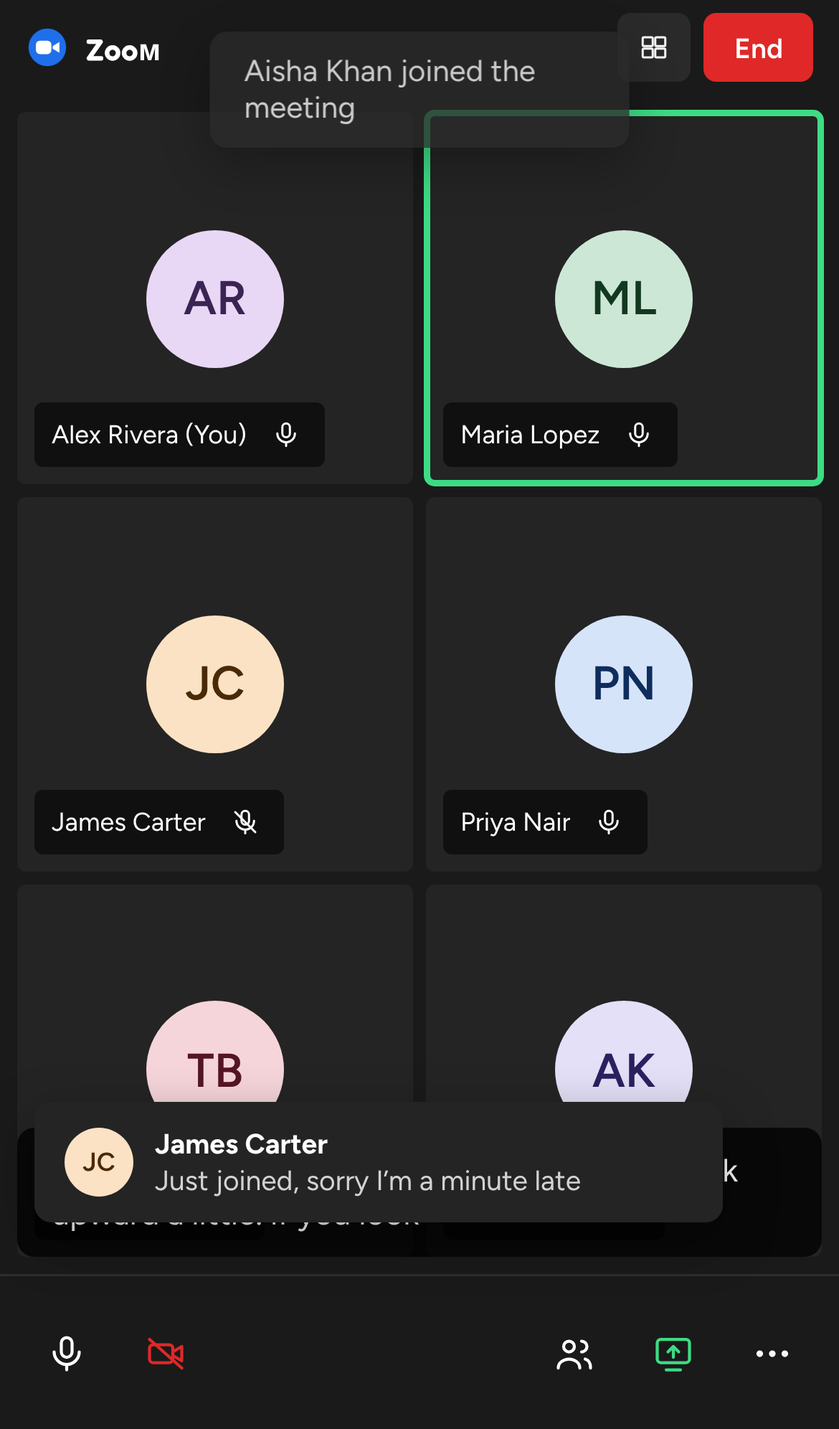
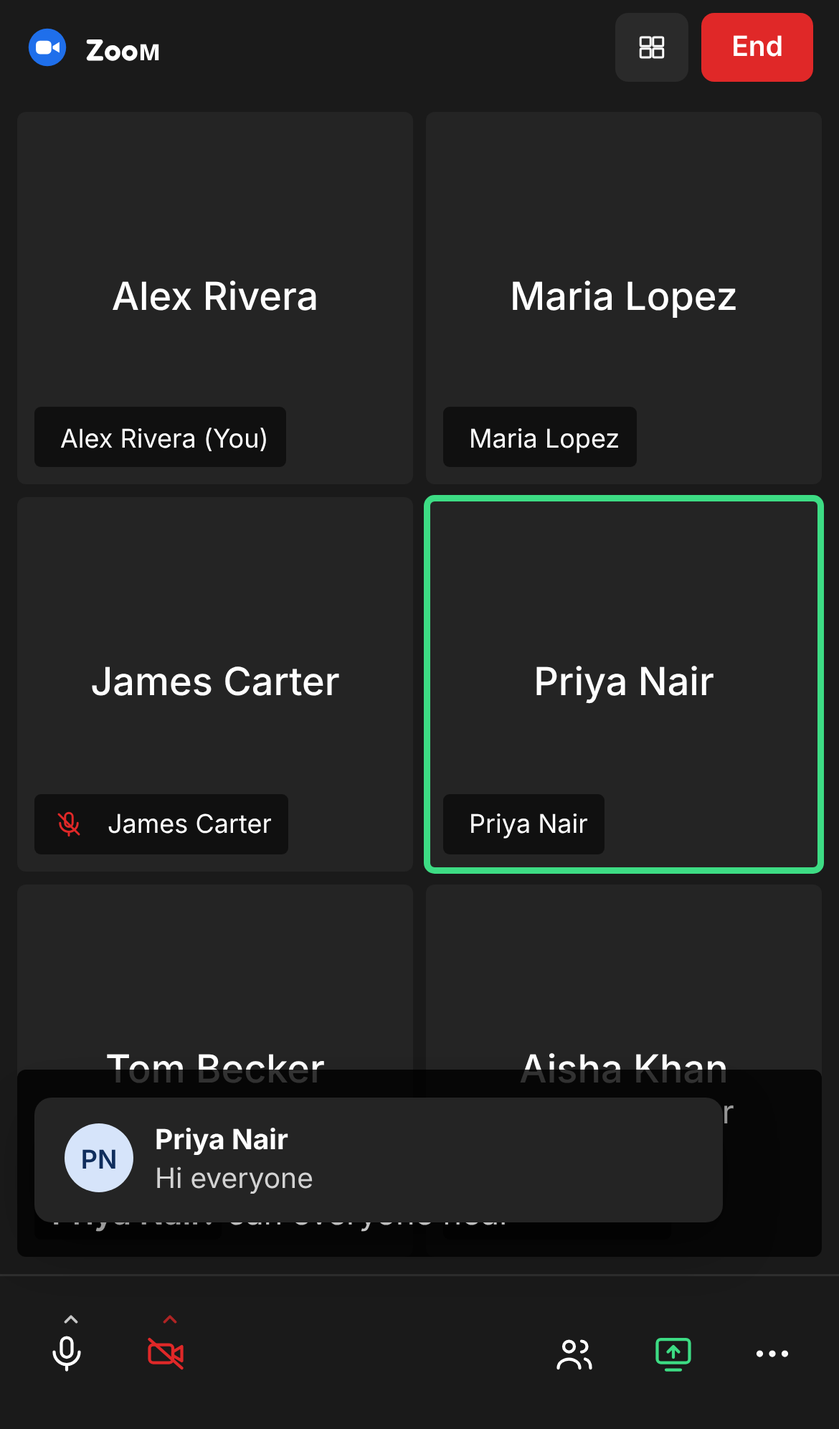
Final pass: app lookalikes closer to the originals
- Each app's own typeface (Segoe UI, system font, Inter, Google Sans/Roboto)
- Name labels per app; mic icon only when muted
- Zoom: names instead of initials when the camera is off, carets on
  Mute and Stop Video, "React", "To: Everyone" chat
- Meet: talking and muted indicators in the tile corner, mic and camera
  pills with a device caret, device pickers and effects on pre-join
- Teams pre-join: audio options column (Computer, Room, Phone, none)
- Zoom and Webex pre-join details; captions styled per app
- README screenshots refreshed

Claude-Session: https://claude.ai/code/session_01Dy5XS5pHaniwk8XpDKJfnS

diff --git a/meeting.html b/meeting.html
@@ -5,7 +5,7 @@
 <meta name="viewport" content="width=device-width, initial-scale=1, viewport-fit=cover">
 <title>Totally Real Meeting: in a parody call</title>
 <link rel="preconnect" href="https://fonts.googleapis.com">
-<link href="https://fonts.googleapis.com/css2?family=Figtree:wght@400;500;600;700&family=Fredoka:wght@600&display=swap" rel="stylesheet">
+<link href="https://fonts.googleapis.com/css2?family=Figtree:wght@400;500;600;700&family=Fredoka:wght@600&family=Inter:wght@400;500;600&family=Roboto:wght@400;500&display=swap" rel="stylesheet">
 <script src="shared.js"></script>
 <script src="talk.js"></script>
 <style>
@@ -35,6 +35,17 @@ a{color:inherit}
 .name{position:absolute;left:8px;bottom:8px;max-width:calc(100% - 16px);display:flex;align-items:center;gap:4px;padding:3px 4px 3px 8px;border-radius:4px;font-size:13px;z-index:1}
 .name .n{overflow:hidden;text-overflow:ellipsis;white-space:nowrap}
 .name button{width:28px;height:24px;flex:none;border:0;background:transparent;display:inline-flex;align-items:center;justify-content:center;padding:0;cursor:pointer}
+.name button.quiet{width:0;opacity:0;overflow:hidden}.tile:hover .name button.quiet,.name button.quiet:focus-visible{width:28px;opacity:1}
+.name:has(button.quiet){padding-right:8px}.skin-zoom .name{padding:2px 8px 2px 2px}.skin-zoom .name:has(button.quiet){padding-left:8px}
+.zname{max-width:100%;padding:0 16px;font-size:clamp(18px,2.2vw,32px);font-weight:500;color:#fff;text-align:center;overflow:hidden;text-overflow:ellipsis;white-space:nowrap}
+.dense .zname,.speaker .strip .zname{font-size:16px}
+.mstat{position:absolute;top:10px;right:10px;z-index:1;width:28px;height:28px;border:0;border-radius:50%;display:flex;align-items:center;justify-content:center;cursor:pointer;color:#fff;padding:0}
+.mstat.quiet{background:transparent;opacity:0}.tile:hover .mstat.quiet,.mstat.quiet:focus-visible{opacity:1;background:rgba(32,33,36,.6)}
+.bars{display:flex;align-items:center;gap:2px;height:14px}.bars i{width:3px;height:4px;border-radius:2px;background:#fff;animation:bar .5s ease-in-out infinite alternate}
+.bars i:nth-child(2){animation-delay:.15s}.bars i:nth-child(3){animation-delay:.3s}
+@keyframes bar{to{height:12px}}
+.skin-meet .react{right:48px}
+.caret{position:absolute;top:5px;right:16px;opacity:.75}
 .hand{position:absolute;top:8px;left:8px;z-index:1;width:30px;height:30px;border-radius:8px;background:#FFC83D;color:#3A2A00;display:flex;align-items:center;justify-content:center}
 .react{position:absolute;top:6px;right:10px;z-index:1;font-size:34px;line-height:1;animation:pop 3.5s ease-out forwards;pointer-events:none}
 @keyframes pop{0%{transform:translateY(16px) scale(.6);opacity:0}12%{transform:none;opacity:1}80%{opacity:1}100%{transform:translateY(-24px);opacity:0}}
@@ -54,6 +65,12 @@ button:focus-visible,a:focus-visible,input:focus-visible,select:focus-visible,[r
 .captions .cl + .cl{margin-top:6px}
 .captions .cl.old{opacity:.62}
 .captions b{font-weight:600;margin-right:6px;opacity:.8}
+.captions .cl.rich{display:flex;gap:10px;align-items:flex-start}
+.captions .rich b{display:block;margin:0 0 1px;font-size:13px;opacity:.85}
+.captions .cav{width:28px;height:28px;flex:none;margin-top:2px;border-radius:50%;display:flex;align-items:center;justify-content:center;font-size:11px;font-weight:600}
+.captions.cap-meet{font-size:20px;background:rgba(32,33,36,.9);border-radius:12px;padding:12px 18px}
+.captions.cap-meet .rich b{font-size:14px}
+.captions.cap-zoom,.captions.cap-webex{border-radius:4px;background:rgba(0,0,0,.8)}
 #toast{position:fixed;z-index:6;width:min(320px,calc(100% - 32px));padding:12px 14px;border-radius:8px;display:flex;gap:10px;box-shadow:0 8px 24px rgba(0,0,0,.35);font-size:13px;opacity:0;transform:translateY(8px);transition:opacity .2s,transform .2s;pointer-events:none}
 #toast.show{opacity:1;transform:none;pointer-events:auto;cursor:pointer}
 #notice{position:fixed;z-index:9;left:50%;top:76px;transform:translate(-50%,-6px);padding:10px 16px;border-radius:8px;background:#2B2B2B;color:#fff;font-size:14px;box-shadow:0 8px 24px rgba(0,0,0,.35);opacity:0;transition:opacity .2s,transform .2s;pointer-events:none;max-width:calc(100% - 32px)}
@@ -124,6 +141,13 @@ button:focus-visible,a:focus-visible,input:focus-visible,select:focus-visible,[r
 .lob-h{margin:0;font-weight:600;font-size:22px}
 .lob-sub{margin:0;font-size:14px;opacity:.75}
 .joinbtn{border:0;cursor:pointer;font-weight:600;font-size:15px;min-height:40px;padding:0 24px;display:inline-flex;align-items:center;justify-content:center;gap:8px}
+.tlob{display:grid;grid-template-columns:minmax(0,1fr) 300px;gap:20px;padding:16px}
+@media (max-width:760px){.tlob{grid-template-columns:1fr}}
+.aopt{display:block;width:100%;padding:10px 12px;border-radius:6px;background:transparent}
+.rdot{width:18px;height:18px;flex:none;border:2px solid;border-radius:50%;display:inline-flex;align-items:center;justify-content:center}.rdot i{width:8px;height:8px;border-radius:50%}
+.skin-meet .pre .off{margin-bottom:64px}
+.devrow{display:flex;gap:8px;flex-wrap:wrap;margin-top:12px}
+.devchip{gap:6px;height:32px;max-width:220px;padding:0 10px;border:1px solid #DADCE0;border-radius:16px;font-size:13px}.devchip span{overflow:hidden;text-overflow:ellipsis;white-space:nowrap}
 .swrow{display:flex;align-items:center;gap:10px;font-size:14px}
 .connecting{position:absolute;left:50%;top:50%;transform:translate(-50%,-50%);z-index:3;display:flex;flex-direction:column;align-items:center;gap:14px;padding:22px 28px;border-radius:10px;background:rgba(0,0,0,.72);color:#fff;font-size:15px}
 .spin{width:30px;height:30px;border-radius:50%;border:3px solid rgba(255,255,255,.25);border-top-color:#fff;animation:spin 1s linear infinite}
@@ -185,6 +209,10 @@ const CA = S.customApp;
 /* The custom look borrows one of three layouts; everything else about it comes from the settings. */
 const L = skin === 'custom' ? { top: 'teams', bottom: 'zoom', pill: 'webex' }[CA.layout] : skin;
 const me = (S.name || '').trim() || 'Guest';
+/* Each app's own typeface (or the closest free one): Segoe UI for Teams, the system font for Zoom, Inter for Webex, Google Sans or Roboto for Meet. */
+const FONT = { teams: "'Segoe UI Variable Text','Segoe UI',-apple-system,BlinkMacSystemFont,Roboto,sans-serif", zoom: "-apple-system,BlinkMacSystemFont,'Segoe UI',Lato,'Helvetica Neue',Arial,sans-serif", webex: "Inter,'Segoe UI',-apple-system,system-ui,sans-serif", meet: "'Google Sans',Roboto,Arial,sans-serif" }[skin];
+if (FONT) document.body.style.fontFamily = FONT;
+document.body.classList.add('skin-' + skin);
 const isNarrow = () => matchMedia('(max-width:700px)').matches;
 const SITE_URL = new URL('index.html', location.href).href.replace(/index\.html$/, '');
 
@@ -224,6 +252,7 @@ const state = {
   joined: Date.now(),                    /* chat pacing follows when you joined, not the clock */
   panel: null, ended: null, view: 'gallery', hand: false, react: null, rec: false, cc: !S.audio, capLines: [],   /* with no audio, captions start on */
   phase: 'lobby',   /* lobby, connecting, call; then ended */
+  lobAudio: 0,      /* Teams pre-join: which audio option is picked */
   people: []
 
 };
@@ -258,7 +287,8 @@ function gridCols(n) {
   if (isNarrow()) return n <= 2 ? 1 : 2;
   return n <= 1 ? 1 : n <= 4 ? 2 : n <= 9 ? 3 : n <= 16 ? 4 : 5;
 }
-function avatar(p, ini) {
+function avatar(p, ini, name) {
+  if (skin === 'zoom' && name) return `<span class="zname" aria-hidden="true">${esc(name)}</span>`;   /* Zoom shows the name, not initials, when the camera is off */
   return skin === 'meet'
     ? `<span class="avatar" style="background:${p.solid};color:#fff" aria-hidden="true">${esc(ini[0])}</span>`
     : `<span class="avatar" style="background:${p.bg};color:${p.fg}" aria-hidden="true">${esc(ini)}</span>`;
@@ -266,21 +296,30 @@ function avatar(p, ini) {
 function selfTile() {
   const video = state.camOn && stream;
   return `<div class="tile" style="background:${video ? C.self : C.tile};border-radius:${C.radius}">
-      ${video ? `<video id="selfVideo" class="${state.mirror ? 'mirror' : ''}" autoplay muted playsinline></video>` : avatar(ME_AV, initials(me))}
+      ${video ? `<video id="selfVideo" class="${state.mirror ? 'mirror' : ''}" autoplay muted playsinline></video>` : avatar(ME_AV, initials(me), me)}
       ${state.hand ? `<span class="hand" title="Hand raised">${handIco(18)}</span>` : ''}
       ${state.react ? `<span class="react" aria-hidden="true">${state.react}</span>` : ''}
-      <span class="name" style="background:${C.label};color:${C.text}"><span class="n">${esc(me)} (You)</span><button data-mute aria-label="${state.muted ? 'Unmute meeting audio' : 'Mute meeting audio'}" aria-pressed="${state.muted}" style="color:${C.text}">${micIco(14)}</button></span></div>`;
+      ${nameLabel(`${me} (You)`, state.muted, `data-mute aria-label="${state.muted ? 'Unmute meeting audio' : 'Mute meeting audio'}" aria-pressed="${state.muted}"`, false)}</div>`;
+}
+/* The name label, drawn the way each app draws it. The mic icon shows when someone is muted (and on hover, to mute them). */
+function nameLabel(name, muted, btnAttr, speaking) {
+  const mic = ico('mic', 14, muted ? ICONS.slash : '');
+  if (skin === 'zoom') return `<span class="name" style="background:rgba(0,0,0,.55);color:#fff;border-radius:3px"><button ${btnAttr} class="${muted ? '' : 'quiet'}" style="color:${muted ? '#E02828' : '#fff'}">${mic}</button><span class="n">${esc(name)}</span></span>`;
+  if (skin === 'meet') return `<span class="name" style="background:transparent;color:#fff;text-shadow:0 1px 2px rgba(0,0,0,.6);padding-left:6px"><span class="n">${esc(name)}</span></span>
+      <button class="mstat${muted || speaking ? '' : ' quiet'}" ${btnAttr} style="background:${muted ? 'rgba(32,33,36,.75)' : speaking ? '#1A73E8' : ''}">${speaking && !muted ? '<span class="bars" aria-hidden="true"><i></i><i></i><i></i></span>' : mic}</button>`;
+  return `<span class="name" style="background:${C.label};color:${C.text}"><span class="n">${esc(name)}</span><button ${btnAttr} class="${muted || skin === 'custom' ? '' : 'quiet'}" style="color:${C.text}">${mic}</button></span>`;
 }
 function personTile(p, i) {
-  const ring = p.speaking && !p.muted && !state.muted ? `outline:${skin === 'zoom' ? 3 : 2}px solid ${C.ring};outline-offset:-2px;` : 'outline:2px solid transparent;';
-  return `<div class="tile" style="background:${C.tile};border-radius:${C.radius};${ring}">${avatar(p, initials(p.name))}
+  const talking = p.speaking && !p.muted && !state.muted;
+  const ring = talking && skin !== 'meet' ? `outline:${skin === 'zoom' ? 3 : 2}px solid ${C.ring};outline-offset:-2px;` : 'outline:2px solid transparent;';
+  return `<div class="tile" style="background:${C.tile};border-radius:${C.radius};${ring}">${avatar(p, initials(p.name), p.name)}
       ${p.hand ? `<span class="hand" title="Hand raised">${handIco(18)}</span>` : ''}
       ${p.react ? `<span class="react" aria-hidden="true">${p.react}</span>` : ''}
-      <span class="name" style="background:${C.label};color:${C.text}"><span class="n">${esc(p.name)}</span><button data-p="${i}" aria-label="${p.muted ? 'Unmute' : 'Mute'} ${esc(p.name)}" aria-pressed="${p.muted}" style="color:${C.text}">${ico('mic', 14, p.muted ? ICONS.slash : '')}</button></span></div>`;
+      ${nameLabel(p.name, p.muted, `data-p="${i}" aria-label="${p.muted ? 'Unmute' : 'Mute'} ${esc(p.name)}" aria-pressed="${p.muted}"`, talking)}</div>`;
 }
 function overlays() {
   return `${state.phase === 'connecting' ? `<div class="connecting" role="status"><span class="spin" aria-hidden="true"></span>${L === 'meet' ? 'Joining…' : 'Connecting…'}</div>` : ''}${state.rec ? '<div class="rec"><i aria-hidden="true"></i>Recording</div>' : ''}
-    ${state.cc ? `<div class="captions" id="cap" aria-live="off">${captionsHtml()}</div>` : ''}`;
+    ${state.cc ? `<div class="captions cap-${skin}" id="cap" aria-live="off">${captionsHtml()}</div>` : ''}`;
 }
 /* On a wide screen an open panel sits beside the tiles, the way the desktop apps do it, so the controls stay reachable. */
 const PANEL_GAP = { teams: [64, 0, 0], zoom: [44, 72, 0], webex: [52, 84, 0], meet: [16, 80, 16] };
@@ -305,6 +344,7 @@ function tiles() {
 /* ---------- the four control layouts ---------- */
 const title = esc(topicTitle(S));
 const CHEVRON = '<svg width="14" height="14" viewBox="0 0 24 24" fill="none" stroke="currentColor" stroke-width="2.2" stroke-linecap="round" stroke-linejoin="round" aria-hidden="true"><path d="M6 9l6 6 6-6"/></svg>';
+const UPCARET = '<svg class="caret" width="10" height="10" viewBox="0 0 24 24" fill="none" stroke="currentColor" stroke-width="3" stroke-linecap="round" stroke-linejoin="round" aria-hidden="true"><path d="M6 15l6-6 6 6"/></svg>';
 const ex = (name) => `aria-expanded="false" aria-haspopup="${name}"`;
 
 function render() {
@@ -337,8 +377,8 @@ function render() {
       <span style="display:flex;gap:6px">${canFull ? `<button class="ibtn hide-xs" data-full aria-label="Full screen" style="height:32px;padding:0 10px;gap:6px;border-radius:6px;background:${C.chip};color:${C.text};font-size:12px">${ico(state.full ? 'exitfull' : 'full', 14)}<span class="hide-sm">${state.full ? 'Exit full screen' : 'Full screen'}</span></button>` : ''}<button class="ibtn" data-view ${ex('menu')} style="height:32px;padding:0 10px;gap:6px;border-radius:6px;background:${C.chip};color:${C.text};font-size:12px">${ico('view', 14)}<span class="hide-sm">View</span></button><button class="ibtn show-sm" data-leavemenu ${ex('menu')} style="height:32px;padding:0 14px;border-radius:6px;background:${C.leave};color:#fff;font-weight:600;font-size:13px">End</button></span></div>
       ${tiles()}
       <div style="height:72px;flex:none;display:flex;align-items:center;justify-content:space-between;padding:0 8px;background:${C.bar};border-top:1px solid ${C.line}">
-        <div style="display:flex">${b(micIco(), state.muted ? 'Unmute' : 'Mute', `data-mute aria-pressed="${state.muted}"`, state.muted ? '#E02828' : C.text)}${b(camIco(), state.camOn ? 'Stop Video' : 'Start Video', `data-cam aria-pressed="${!state.camOn}"`, state.camOn ? C.text : '#E02828')}</div>
-        <div style="display:flex">${b(ico('people') + `<span class="badge" style="right:22px;background:#3D3D3D">${state.people.length + 1}</span>`, 'Participants', `data-people aria-pressed="${pp}"`)}<span class="hide-sm" style="display:flex">${b(ico('chat') + `<span class="badge" style="right:20px">${unread}</span>`, 'Chat', `data-chat aria-label="Chat" aria-pressed="${state.panel === 'chat'}"`)}</span>${b(ico('share'), 'Share', 'data-share', C.share)}<span class="hide-sm" style="display:flex">${b(ico('rec'), rp ? 'Stop' : 'Record', `data-rec aria-pressed="${rp}"`, rp ? '#E02828' : C.text)}${b(ico('smile'), 'Reactions', `data-react ${ex('menu')}`)}</span>${b(ico('more'), 'More', `data-more ${ex('menu')}`)}</div>
+        <div style="display:flex">${b(micIco() + UPCARET, state.muted ? 'Unmute' : 'Mute', `data-mute aria-pressed="${state.muted}"`, state.muted ? '#E02828' : C.text)}${b(camIco() + UPCARET, state.camOn ? 'Stop Video' : 'Start Video', `data-cam aria-pressed="${!state.camOn}"`, state.camOn ? C.text : '#E02828')}</div>
+        <div style="display:flex">${b(ico('people') + `<span class="badge" style="right:22px;background:#3D3D3D">${state.people.length + 1}</span>`, 'Participants', `data-people aria-pressed="${pp}"`)}<span class="hide-sm" style="display:flex">${b(ico('chat') + `<span class="badge" style="right:20px">${unread}</span>`, 'Chat', `data-chat aria-label="Chat" aria-pressed="${state.panel === 'chat'}"`)}</span>${b(ico('share'), 'Share', 'data-share', C.share)}<span class="hide-sm" style="display:flex">${b(ico('rec'), rp ? 'Stop' : 'Record', `data-rec aria-pressed="${rp}"`, rp ? '#E02828' : C.text)}${b(ico('smile'), 'React', `data-react ${ex('menu')}`)}</span>${b(ico('more'), 'More', `data-more ${ex('menu')}`)}</div>
         <button class="ibtn hide-sm" data-leavemenu ${ex('menu')} style="height:34px;padding:0 18px;border-radius:8px;background:${C.leave};color:#fff;font-weight:600">End</button>
       </div>`;
   }
@@ -364,12 +404,13 @@ function render() {
 
   if (L === 'meet') {
     const r = (k, attr = '', bg = C.btn, label = '') => `<button class="ibtn" ${attr} aria-label="${label}" style="width:48px;height:48px;border-radius:24px;background:${bg};color:${bg === '#8AB4F8' ? '#202124' : C.text}">${k}</button>`;
+    const dev = (btn, label) => skin === 'meet' ? `<span style="display:inline-flex;align-items:center;border-radius:24px;background:${C.btn}"><button class="ibtn hide-sm" data-settings aria-label="${label}" style="width:30px;height:48px;padding-left:4px;color:${C.text}">${UPCARET.replace('class="caret" ', '')}</button>${btn}</span>` : btn;
     html = `<div class="show-sm" style="height:52px;flex:none;align-items:center;justify-content:space-between;padding:0 8px 0 16px">${brand('meet', 22)}<button class="ibtn" data-info aria-label="${W.info}" style="width:44px;height:44px;color:${C.text}">${ico('info')}</button></div>${tiles()}
       <div style="height:80px;flex:none;display:flex;align-items:center;justify-content:space-between;gap:8px;padding:0 20px">
         <span class="hide-sm" style="display:flex;align-items:center;gap:12px;font-size:15px;white-space:nowrap;min-width:0">${brand('meet', 24)}<span data-clock>${clock()}</span><span style="color:${C.muted}">|</span><span style="overflow:hidden;text-overflow:ellipsis">${title}</span></span>
         <span style="display:flex;gap:10px;margin:0 auto">
-          ${r(micIco(), `data-mute aria-pressed="${state.muted}"`, state.muted ? '#EA4335' : C.btn, state.muted ? 'Unmute meeting audio' : 'Mute meeting audio')}
-          ${r(camIco(), `data-cam aria-pressed="${!state.camOn}"`, state.camOn ? C.btn : '#EA4335', 'Camera')}
+          ${dev(r(micIco(), `data-mute aria-pressed="${state.muted}"`, state.muted ? '#EA4335' : C.btn, state.muted ? 'Turn on microphone' : 'Turn off microphone'), 'Audio settings')}
+          ${dev(r(camIco(), `data-cam aria-pressed="${!state.camOn}"`, state.camOn ? C.btn : '#EA4335', state.camOn ? 'Turn off camera' : 'Turn on camera'), 'Video settings')}
           <span class="hide-sm" style="display:flex;gap:10px">${r(ico('cc'), `data-cc aria-pressed="${state.cc}"`, state.cc ? '#8AB4F8' : C.btn, state.cc ? W.ccOff : W.cc)}${r(ico('smile'), `data-react ${ex('menu')}`, C.btn, 'Send a reaction')}${r(handIco(20), `data-hand aria-pressed="${hp}"`, hp ? '#8AB4F8' : C.btn, hp ? 'Lower hand' : 'Raise hand')}${r(ico('share'), 'data-share', C.btn, 'Share link')}</span>
           ${r(ico('more'), `data-more ${ex('menu')}`, C.btn, 'More options')}
           <button data-leavemenu aria-haspopup="dialog" aria-label="Leave call" class="ibtn" style="width:64px;height:48px;border-radius:24px;background:${C.leave};color:#fff">${ico('phone', 22)}</button>
@@ -414,8 +455,18 @@ function tail(t) {
   const n = capLimit(); if (t.length <= n) return t;
   const cut = t.slice(-n); return '…' + cut.slice(cut.indexOf(' ') + 1);
 }
+/* Teams and Meet put a small picture and the name above each speaker's words. Zoom and Webex write "Name: words". */
 function captionsHtml() {
-  return state.capLines.map((c, i) => `<span class="cl${i < state.capLines.length - 1 ? ' old' : ''}"><b>${esc(c.name)}</b>${esc(tail(c.text))}</span>`).join('');
+  const n = state.capLines.length;
+  return state.capLines.map((c, i) => {
+    const old = i < n - 1 ? ' old' : '', words = esc(tail(c.text));
+    if (skin === 'teams' || skin === 'meet') {
+      const p = INVITED.find(x => x.name === c.name) || ME_AV;
+      const pic = skin === 'meet' ? `<span class="cav" style="background:${p.solid};color:#fff">${esc(initials(c.name)[0])}</span>` : `<span class="cav" style="background:${p.bg};color:${p.fg}">${esc(initials(c.name))}</span>`;
+      return `<span class="cl rich${old}">${pic}<span><b>${esc(c.name)}</b>${words}</span></span>`;
+    }
+    return `<span class="cl${old}"><b>${esc(c.name)}${skin === 'custom' ? '' : ':'}</b>${words}</span>`;
+  }).join('');
 }
 function paintCaptions() { const el = document.getElementById('cap'); if (el) el.innerHTML = captionsHtml(); }
 let capClear = null;
@@ -674,6 +725,8 @@ function styleSides() {
   document.getElementById('chatSend').innerHTML = ico('send'); document.getElementById('chatSend').style.color = fg;
   placeSides();
   document.getElementById('chatTitle').textContent = W.chat;
+  inp.placeholder = { zoom: 'Type message here…', meet: 'Send a message', webex: 'Write a message to everyone' }[skin] || 'Type a message';
+  if (skin === 'zoom' && !document.getElementById('chatTo')) document.getElementById('chatForm').insertAdjacentHTML('beforebegin', `<div id="chatTo" style="padding:8px 16px 0;font-size:12px;color:${C.muted}">To: <span style="display:inline-flex;align-items:center;gap:2px;padding:2px 8px;border-radius:4px;background:#0E72ED;color:#fff;font-weight:600">Everyone ${CHEVRON}</span></div>`);
   document.getElementById('peopleTitle').textContent = W.people;
   document.getElementById('infoTitle').textContent = W.info;
 }
@@ -960,6 +1013,7 @@ function roomAction(b) {
   else if ('share' in d) shareSite();
   else if ('rec' in d) toggleRec();
   else if ('cc' in d) toggleCC();
+  else if ('settings' in d) openSettings();
 }
 document.getElementById('room').addEventListener('click', e => { const b = e.target.closest('button'); if (!b) return; state.ended ? endAction(b) : state.phase === 'lobby' ? lobbyAction(b) : roomAction(b); });
 
@@ -1185,9 +1239,17 @@ function endAction(b) {
 function preview(radius, bg, extra = '') {
   const video = state.camOn && stream;
   return `<div class="pre" style="background:${bg};border-radius:${radius}">${video ? `<video id="preVideo" class="${state.mirror ? 'mirror' : ''}" autoplay muted playsinline></video>`
-    : `<div class="off" style="color:#E8EAED">${avatar(ME_AV, initials(me))}<span>${state.camOn ? 'Starting your camera…' : 'Your camera is off'}</span></div>`}${extra}</div>`;
+    : `<div class="off" style="color:${C.text}">${avatar(ME_AV, initials(me), me)}<span>${state.camOn ? 'Starting your camera…' : 'Your camera is off'}</span></div>`}${extra}</div>`;
 }
 const sw = (attr, on, label) => `<span class="swrow">${label}<button class="tog" role="switch" aria-checked="${on}" aria-label="${label}" ${attr} style="background:${on ? C.accent : '#8A8A8A'}"></button></span>`;
+const TEAMS_AUDIO = [
+  { label: 'Computer audio', icon: 'headset', sub: 'Default speaker and microphone' },
+  { label: 'Room audio', icon: 'speaker' },
+  { label: 'Phone audio', icon: 'phone' },
+  { label: 'Don’t use audio', icon: 'x' }
+];
+/* Small device pickers under the Meet preview. */
+const deviceChip = (icon, text) => `<button class="ibtn devchip" data-lobdev style="color:#5F6368">${ico(icon, 18)}<span>${text}</span>${CHEVRON}</button>`;
 function drawLobby() {
   const room = document.getElementById('room');
   const micOn = !state.muted, camOn = state.camOn;
@@ -1195,18 +1257,23 @@ function drawLobby() {
   let bg = C.stage, fg = C.text, html;
   if (L === 'teams') {
     html = `<div style="height:56px;flex:none;display:flex;align-items:center;padding:0 16px;background:${C.bar};border-bottom:1px solid ${C.line}">${brand(skin, 24)}</div>
-      <div class="lobby"><div style="width:100%;max-width:680px;display:flex;flex-direction:column;gap:14px">
+      <div class="lobby"><div style="width:100%;max-width:980px;display:flex;flex-direction:column;gap:14px">
         <h1 class="lob-h">${title}</h1><p class="lob-sub">Choose your video and audio options</p>
-        <div style="background:${C.panel};border:1px solid ${C.line};border-radius:8px;overflow:hidden">
-          ${preview('0', C.self)}
-          <div style="display:flex;align-items:center;gap:18px;flex-wrap:wrap;padding:14px 16px">
-            <span style="display:flex;align-items:center;gap:6px">${camIco()}${sw('data-precam', camOn, 'Camera')}</span>
-            <span style="display:flex;align-items:center;gap:6px">${micIco()}${sw('data-premic', micOn, 'Mic')}</span>
-            <span style="flex:1"></span>
-            <a href="index.html" style="font-size:14px;font-weight:600;text-decoration:none;padding:0 8px">Cancel</a>
-            <button class="joinbtn" data-join style="border-radius:4px;background:${C.accent};color:${C.onAccent}">Join now</button>
+        <div class="tlob" style="background:${C.panel};border:1px solid ${C.line};border-radius:8px">
+          <div style="min-width:0">${preview('6px', C.self)}
+            <div style="display:flex;align-items:center;gap:16px;flex-wrap:wrap;padding:12px 2px 0">
+              <span style="display:flex;align-items:center;gap:6px">${camIco()}${sw('data-precam', camOn, 'Camera')}</span>
+              <button class="ibtn" data-lobfx style="gap:6px;height:32px;padding:0 10px;border-radius:4px;color:${C.text};font-size:14px">${ico('sparkle', 18)}Effects and avatars</button>
+            </div></div>
+          <div role="radiogroup" aria-label="Audio" style="display:flex;flex-direction:column;gap:6px">
+            ${TEAMS_AUDIO.map((o, i) => `<button class="ibtn aopt" role="radio" aria-checked="${state.lobAudio === i}" data-lobaudio="${i}" style="border:1px solid ${state.lobAudio === i ? C.accent : C.line};color:${C.text}">
+              <span style="display:flex;align-items:center;gap:12px;width:100%">${ico(o.icon, 20)}<span style="flex:1;text-align:left"><span style="display:block;font-weight:600;font-size:14px">${o.label}</span>${state.lobAudio === i && o.sub ? `<small style="display:block;font-size:12px;color:${C.muted}">${o.sub}</small>` : ''}</span><span class="rdot" style="border-color:${state.lobAudio === i ? C.accent : C.muted}">${state.lobAudio === i ? `<i style="background:${C.accent}"></i>` : ''}</span></span></button>
+              ${i === 0 && state.lobAudio === 0 ? `<span style="display:flex;align-items:center;gap:6px;padding:4px 12px 6px">${micIco()}${sw('data-premic', micOn, 'Mic')}</span>` : ''}`).join('')}
           </div></div>
-        <p class="lob-sub">Computer audio · ${here.length ? `${esc(here[0].name)}${here.length > 1 ? ` and ${here.length - 1} other${here.length > 2 ? 's' : ''}` : ''} in this meeting` : 'Nobody else is here yet'}</p>
+        <div style="display:flex;align-items:center;justify-content:space-between;gap:12px;flex-wrap:wrap">
+          <p class="lob-sub">${here.length ? `${esc(here[0].name)}${here.length > 1 ? ` and ${here.length - 1} other${here.length > 2 ? 's' : ''}` : ''} in this meeting` : 'Nobody else is here yet'}</p>
+          <span style="display:flex;gap:8px"><a href="index.html" class="joinbtn" style="border-radius:4px;border:1px solid ${C.line};text-decoration:none;font-size:14px">Cancel</a><button class="joinbtn" data-join style="border-radius:4px;background:${C.accent};color:${C.onAccent}">Join now</button></span>
+        </div>
       </div></div>`;
   } else if (L === 'zoom') {
     bg = '#FFFFFF'; fg = '#232333';
@@ -1216,17 +1283,19 @@ function drawLobby() {
         <h1 class="lob-h" style="text-align:center">${title}</h1>
         ${preview('12px', '#1A1A1A', `<div class="prebtns">${round('data-premic', micOn, micIco(), micOn ? 'Mute' : 'Unmute')}${round('data-precam', camOn, camIco(), camOn ? 'Stop Video' : 'Start Video')}</div>`)}
         <label style="display:flex;flex-direction:column;gap:6px;font-size:13px;color:#6E7680">Your Name<input readonly value="${esc(me)}" style="height:42px;padding:0 12px;border:1px solid #DFE3E8;border-radius:8px;font-size:15px;color:#232333;background:#fff"></label>
+        <label style="display:flex;align-items:center;gap:8px;font-size:14px;color:#232333"><input type="checkbox" checked style="width:16px;height:16px;accent-color:${skin === 'custom' ? C.accent : '#0E72ED'}">Remember my name for future meetings</label>
         <button class="joinbtn" data-join style="border-radius:10px;background:${skin === 'custom' ? C.accent : '#0E72ED'};color:#fff;min-height:44px">Join</button>
         <a href="index.html" style="align-self:center;font-size:14px;color:${skin === 'custom' ? C.accent : '#0E72ED'};text-decoration:none">Cancel</a>
       </div></div>`;
   } else if (L === 'webex') {
     const pill = (attr, on, icon, label) => `<button class="ibtn" ${attr} aria-pressed="${!on}" style="height:44px;padding:0 16px;gap:8px;border-radius:22px;background:${on ? C.btn : C.btnOn};color:${C.text};font-size:14px">${icon}${label}</button>`;
-    html = `<div style="height:52px;flex:none;display:flex;align-items:center;padding:0 16px;background:${C.bar};border-bottom:1px solid ${C.line}">${brand(skin, 24)}</div>
+    html = `<div style="height:52px;flex:none;display:flex;align-items:center;justify-content:space-between;padding:0 16px;background:${C.bar};border-bottom:1px solid ${C.line}">${brand(skin, 24)}<button class="ibtn hide-sm" data-lobdev style="gap:6px;height:32px;padding:0 12px;border-radius:16px;color:${C.text};font-size:13px">${ico('share', 16)}Connect to a device</button></div>
       <div class="lobby"><div style="width:100%;max-width:680px;display:flex;flex-direction:column;align-items:center;gap:14px;text-align:center">
         <h1 class="lob-h">${title}</h1><p class="lob-sub">${here.length ? `${here.length + ' ' + (here.length > 1 ? 'people are' : 'person is')} in the meeting` : 'The meeting has started'}</p>
         ${preview('12px', C.self)}
         <div style="display:flex;gap:10px;flex-wrap:wrap;justify-content:center">${pill('data-premic', micOn, micIco(), micOn ? 'Mute' : 'Unmute')}${pill('data-precam', camOn, camIco(), camOn ? 'Stop video' : 'Start video')}
           <button class="joinbtn" data-join style="border-radius:22px;background:#1D805F;color:#fff;min-height:44px">Join meeting</button></div>
+        <button class="ibtn" data-lobdev style="gap:8px;height:36px;padding:0 14px;border-radius:18px;border:1px solid ${C.line};color:${C.text};font-size:13px">${ico('mic', 16)}Use computer for audio${CHEVRON}</button>
         <a href="index.html" style="font-size:14px;color:${C.muted};text-decoration:none">Cancel</a>
       </div></div>`;
   } else {
@@ -1236,7 +1305,8 @@ function drawLobby() {
     const who = !here.length ? 'No one else is here' : here.length === 1 ? `${esc(here[0].name)} is in this call` : here.length === 2 ? `${esc(here[0].name)} and ${esc(here[1].name)} are in this call` : `${esc(here[0].name)} and ${here.length - 1} more are in this call`;
     html = `<div style="height:64px;flex:none;display:flex;align-items:center;padding:0 24px">${brand(skin, 24)}</div>
       <div class="lobby"><div class="meetlob">
-        <div>${preview('8px', '#202124', `<span style="position:absolute;top:14px;left:16px;color:#fff;font-size:14px;z-index:1">${esc(me)}</span><div class="prebtns">${round('data-premic', micOn, micIco(), micOn ? 'Turn off microphone' : 'Turn on microphone')}${round('data-precam', camOn, camIco(), camOn ? 'Turn off camera' : 'Turn on camera')}</div>`)}</div>
+        <div>${preview('8px', '#202124', `<span style="position:absolute;top:14px;left:16px;color:#fff;font-size:14px;z-index:1">${esc(me)}</span><div class="prebtns">${round('data-premic', micOn, micIco(), micOn ? 'Turn off microphone' : 'Turn on microphone')}${round('data-precam', camOn, camIco(), camOn ? 'Turn off camera' : 'Turn on camera')}</div><button class="ibtn" data-lobfx aria-label="Apply visual effects" style="position:absolute;right:14px;bottom:18px;z-index:1;width:40px;height:40px;border-radius:20px;background:rgba(60,64,67,.7);color:#fff">${ico('sparkle', 20)}</button>`)}
+          <div class="devrow">${deviceChip('mic', 'Default - Microphone')}${deviceChip('speaker', 'Default - Speakers')}${deviceChip('cam', 'Integrated Camera')}</div></div>
         <div style="display:flex;flex-direction:column;align-items:center;gap:14px;text-align:center">
           <h1 style="margin:0;font-size:28px;font-weight:400">Ready to join?</h1>
           <span style="display:flex;align-items:center;gap:12px;font-size:14px;color:#5F6368">${faces ? `<span style="display:flex">${faces}</span>` : ''}${who}</span>
@@ -1252,6 +1322,8 @@ function drawLobby() {
 }
 function lobbyAction(b) {
   if ('join' in b.dataset) return joinCall();
+  if (b.dataset.lobaudio) { state.lobAudio = +b.dataset.lobaudio; if (state.lobAudio === 3) state.muted = true; return render(); }
+  if ('lobfx' in b.dataset || 'lobdev' in b.dataset) return notice('Not available in this preview');
   if ('premic' in b.dataset) { state.muted = !state.muted; render(); }
   if ('precam' in b.dataset) setCam(!state.camOn);
 }

diff --git a/shared.js b/shared.js
@@ -3,6 +3,9 @@
 const ICONS = {
   mic: '<rect x="9" y="3" width="6" height="11" rx="3"/><path d="M5 11a7 7 0 0 0 14 0M12 18v3"/>',
   slash: '<path d="M4 4l16 16"/>',
+  speaker: '<path d="M4 9.5v5h3.5L12 18V6L7.5 9.5z"/><path d="M15.5 9a4 4 0 0 1 0 6M18 6.5a7.5 7.5 0 0 1 0 11"/>',
+  sparkle: '<path d="M12 3l1.8 4.7L18.5 9.5l-4.7 1.8L12 16l-1.8-4.7L5.5 9.5l4.7-1.8z"/><path d="M18.5 15.5l.8 2 2 .8-2 .8-.8 2-.8-2-2-.8 2-.8z"/>',
+  headset: '<path d="M4 15v-3a8 8 0 0 1 16 0v3"/><rect x="3" y="14" width="4" height="6" rx="1.5"/><rect x="17" y="14" width="4" height="6" rx="1.5"/>',
   cam: '<rect x="3" y="7" width="13" height="10" rx="2"/><path d="M16 11l5-3v8l-5-3z"/>',
   share: '<rect x="3" y="4" width="18" height="13" rx="2"/><path d="M12 14V8M9 11l3-3 3 3M8 21h8"/>',
   chat: '<path d="M4 5h16v11H9l-5 4z"/>',

diff --git a/README.md b/README.md
@@ -12,10 +12,10 @@
 
 Most fake call pages give you one screen and a frozen grid of faces. This one is built to hold up for a whole meeting.
 
-- **Four app looks, not one.** Teamş, Zooм, Webbex and Meeţ each copy their own app's layout, colours, wording, menus and settings. There is no single design dressed up four ways.
+- **Four app looks, not one.** Teamş, Zooм, Webbex and Meeţ each copy their own app's layout, colours, typeface, wording, menus and settings, down to the small things: Zooм shows names instead of initials when a camera is off, Meeţ shows a blue talking indicator, and each app styles its captions its own way. There is no single design dressed up four ways.
 - **Or design your own app.** Choose a name, logo letter, brand colour, logo shape and one of three layouts (controls on top, a bottom bar or a floating pill).
 - **The whole call, start to finish:**
-  - **Before:** a pre-join screen with a camera preview and mic and camera toggles.
+  - **Before:** each app's own pre-join screen with a camera preview and mic and camera toggles, plus Teamş's audio options and Meeţ's device pickers.
   - **During:** a connecting step, then people drop in one by one.
   - **After:** each app's own leave and end steps lead to an after-call screen with Rejoin and a quality rating.
   - **Rejoin like it's real:** leave for five minutes and the meeting is five minutes further on when you come back, with the same people. If it ended while you were away, you see the host's "meeting ended" screen. A new meeting, or one that was ended for everyone, starts fresh.
